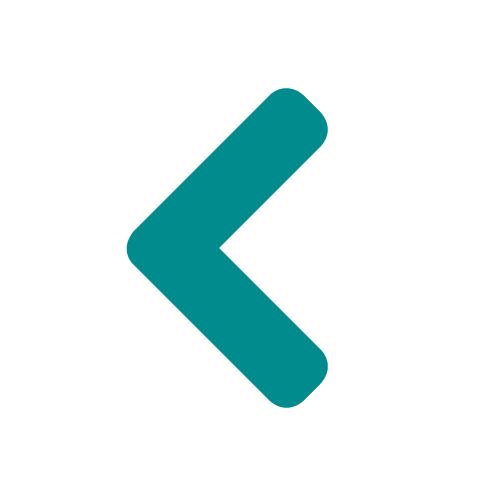
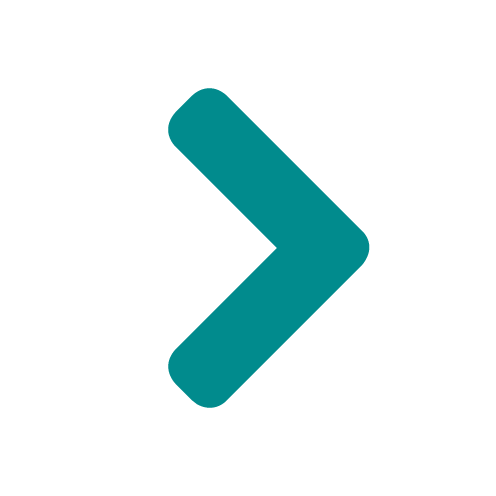
close #17 #20 #23 . Adicionei o carrossel inteiro e responsivo.

Changed region(s): [[0.2419, 0.1815, 0.756, 0.8468]]

diff --git a/static/css/style.css b/static/css/style.css
@@ -43,7 +43,6 @@ body {
 
 .navbar-menu {
     height: 66px;
-    width: 100vw;
     display: flex;
     flex-direction: row;
     justify-content: space-between;
@@ -98,7 +97,7 @@ body {
 .carrossel {
     width: 100%;
     padding-top: 88px;
-    height: 90vh;
+    height: 88vh;
 }
 
 .carrossel-container {
@@ -110,23 +109,25 @@ body {
     position: relative;
 }
 
+
+.seta-esquerda {
+    left: 40px;
+    content: url(../images/seta-esquerda.png);
+    height: 40px;
+    width: 40px;
+    z-index: 1;
+}
+
+.seta-direita {
+    right: 40px;
+    content: url(../images/seta-direita.png);
+    height: 40px;
+    width: 40px;
+}
+
 .slick-arrow {
     position: absolute;
-    /*Mudar para a cor certa*/
-    color: white;
-    font-size: 60px;
     cursor: pointer;
-}
-
-.fa-chevron-circle-left {
-    left: 40px;
-    z-index: 1;
-}
-
-.fa-chevron-circle-right {
-    z-index: 1;
-    right: 40px;
-    text-align: end;
 }
 
 .slick-dots {
@@ -142,9 +143,19 @@ body {
 }
 
 .slick-dots button {
-    margin: 4px;
-    border-radius: 100%;
-    background-color: white;
+    display: block;
+	width: 10px;
+	height: 10px;
+    padding: 6px;
+    margin: 10px;
+	border: none;
+	border-radius: 100%;
+	background-color: rgba(255,255,255,0.5);	
+    text-indent: -9999px;
+}
+
+.slick-dots .slick-active button {
+    background-color: #008B8B;
 }
 
 .slick-dots button {
@@ -159,7 +170,7 @@ body {
 }
 
 .carrossel-call {
-    height: 90vh;
+    height: 93vh;
     background-size: cover;
 }
 
@@ -176,7 +187,7 @@ body {
 }
 
 .carrossel-call__title {
-    margin: 50px 30px 30px; 
+    margin: 50px 30px 20px; 
     font-family: 'Roboto Condensed', sans-serif;
     font-size: 34px;
     font-weight: 400;
@@ -185,7 +196,7 @@ body {
 }
 
 .carrossel-call-link {
-    margin-top: 15px;
+    margin-top: 5px;
 }
 
 .carrossel-call__button {
@@ -205,6 +216,7 @@ body {
 
 /*INSTITUCIONAL*/
 .institucional {
+    min-height: 88vh;
     background-color: #f1f1f1;
     font-family: 'Roboto Condensed', sans-serif;
     font-size: 16px;
@@ -219,7 +231,7 @@ body {
 
 .title {
     padding-top: 50px;
-    padding-bottom: 80px;
+    padding-bottom: 60px;
 }
 
 .title__text {
@@ -268,13 +280,13 @@ body {
     display: flex;
     flex-direction: row;
     justify-content: space-between;
-    padding-bottom: 80px;
+    padding-bottom: 50px;
 }
 
 .mvv-box { 
     display: flex;
     flex-direction: column;
-    padding-top: 100px;
+    padding-top: 80px;
     width: 28%;
 }
 
@@ -289,6 +301,10 @@ body {
 }
 
 /*SERVICOS*/
+.servicos {
+    min-height: 88vh;
+}
+
 .container-servicos {
     display: flex;
     flex-direction: column;
@@ -717,8 +733,21 @@ footer p {
         padding-top: 76px;
     }
 
+    .carrossel-call {
+        height: 100vh - 76px;
+    }
+
     .slick-arrow {
         display: none;
+    }
+
+    .slick-dots {
+        bottom: 5px;
+    }
+
+    .carrossel-call__title {
+        margin-top: 80px;
+        margin-bottom: 80px;
     }
 
     /*INSTITUCIONAL RESPONSIVO*/

diff --git a/static/js/main.js b/static/js/main.js
@@ -62,8 +62,8 @@ $('a[href*="#"]')
 // CARROSSEL
 $(document).ready(function(){
   $('.carrossel-container').slick({
-    nextArrow: '<i class="fas fa-chevron-circle-right"></i>',
-    prevArrow: '<i class="fas fa-chevron-circle-left"></i>',
+    prevArrow: '<div class="seta-esquerda"></div>',
+    nextArrow: '<div class="seta-direita"></div>',
     dots: true,
     /*
     slidesToShow: 1,
